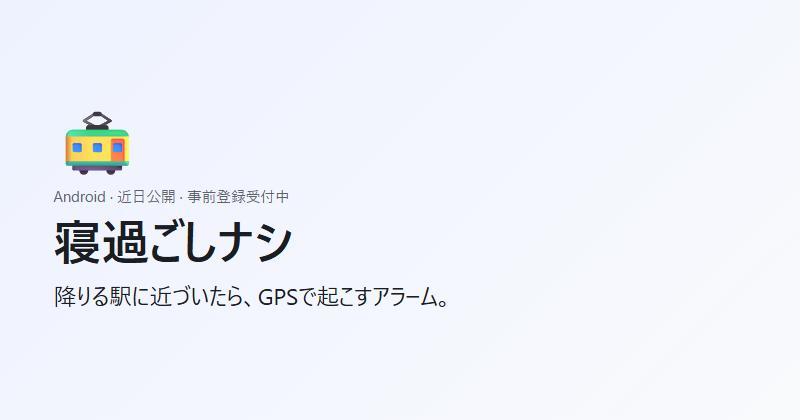
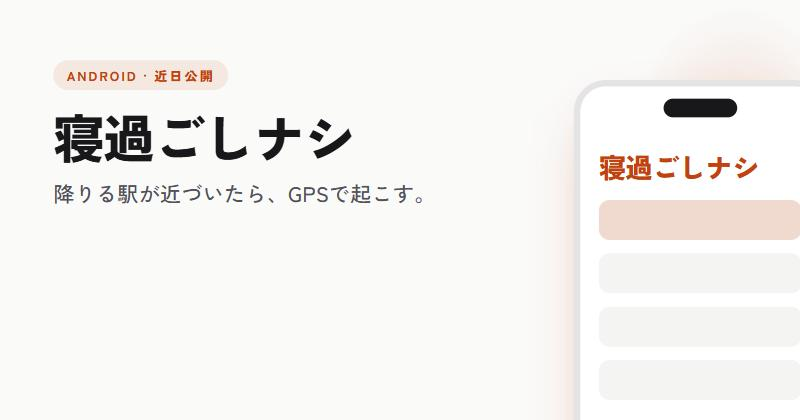
Redesign landing page: per-app accent, app preview, features grid, FAQ

diff --git a/docs/index.html b/docs/index.html
@@ -4,78 +4,206 @@
 <meta charset="utf-8">
 <meta name="viewport" content="width=device-width,initial-scale=1">
 <title>寝過ごしナシ | 近日公開 事前登録</title>
-<meta name="description" content="降りる駅に近づいたら、GPSで起こすアラーム。 Androidアプリ「寝過ごしナシ」の事前登録。">
-<meta property="og:title" content="寝過ごしナシ — 降りる駅に近づいたら、GPSで起こすアラーム。">
+<meta name="description" content="降りる駅が近づいたら、GPSで起こす。 Androidアプリ「寝過ごしナシ」の事前登録。">
+<meta property="og:title" content="寝過ごしナシ | 降りる駅が近づいたら、GPSで起こす。">
 <meta property="og:description" content="近日公開のAndroidアプリ。事前登録が多ければ優先してリリースします。">
 <meta property="og:image" content="https://is-gts.github.io/nesugoshi/og.png">
 <meta property="og:url" content="https://is-gts.github.io/nesugoshi/">
 <meta name="twitter:card" content="summary_large_image">
+<meta name="theme-color" content="#c2410c">
+<link rel="preconnect" href="https://fonts.googleapis.com"><link rel="preconnect" href="https://fonts.gstatic.com" crossorigin>
+<link href="https://fonts.googleapis.com/css2?family=Zen+Kaku+Gothic+New:wght@400;500;700;900&display=swap" rel="stylesheet">
 <style>
-:root{--bg:#f6f7f9;--card:#fff;--fg:#1a1d21;--muted:#5c6470;--line:#e3e6ea;--accent:#2563eb;--ok:#15803d}
-@media(prefers-color-scheme:dark){:root{--bg:#0f1115;--card:#181b21;--fg:#eceef1;--muted:#9aa3ad;--line:#2a2f37;--accent:#60a5fa;--ok:#4ade80}}
+:root{--bg:#fafaf9;--bg2:#f4f4f3;--fg:#18181b;--muted:#5b5b63;--line:#e4e4e7;--card:#ffffff;--accent:#c2410c;--accent-fg:#ffffff;--soft:color-mix(in srgb,#c2410c 9%,#fafaf9);--soft2:color-mix(in srgb,#c2410c 18%,#fafaf9);--ok:#15803d;--shadow:0 20px 60px -20px color-mix(in srgb,#c2410c 35%,transparent)}
+@media(prefers-color-scheme:dark){:root{--bg:#121214;--bg2:#18181b;--fg:#f4f4f5;--muted:#a1a1aa;--line:#2a2a30;--card:#1c1c21;--accent:#fb923c;--accent-fg:#101012;--soft:color-mix(in srgb,#fb923c 12%,#121214);--soft2:color-mix(in srgb,#fb923c 22%,#121214);--ok:#4ade80;--shadow:0 20px 60px -20px rgba(0,0,0,.6)}}
 *{box-sizing:border-box}
-body{margin:0;background:var(--bg);color:var(--fg);font:16px/1.6 system-ui,-apple-system,"Segoe UI",Roboto,"Hiragino Sans","Noto Sans JP",sans-serif}
-main{max-width:560px;margin:0 auto;padding:48px 16px 64px}
-.icon{font-size:64px;line-height:1;margin-bottom:12px}
-h1{font-size:clamp(30px,7vw,42px);line-height:1.25;margin:0 0 8px}
-.pitch{font-size:20px;font-weight:600;margin:0 0 20px}
-ul{margin:0 0 28px;padding-left:20px;color:var(--muted)}
-.badge{display:inline-block;font-size:13px;color:var(--muted);border:1px solid var(--line);border-radius:999px;padding:2px 10px;margin-bottom:16px}
-form{display:flex;gap:8px}
-input[type=email]{flex:1;min-width:0;padding:12px 14px;border:1px solid var(--line);border-radius:8px;background:var(--card);color:var(--fg);font-size:16px}
-button{padding:12px 18px;border:0;border-radius:8px;background:var(--accent);color:#fff;font-weight:600;font-size:16px;cursor:pointer;white-space:nowrap}
-button:disabled{opacity:.6;cursor:default}
-.msg{font-size:14px;min-height:1.4em;margin:8px 0 0}
-.msg.ok{color:var(--ok)}
-.hp{position:absolute;left:-9999px}
-.features{margin-top:48px;padding-top:32px;border-top:1px solid var(--line)}
-.features h2{font-size:22px;margin:0 0 20px}
-.features dl{margin:0;display:grid;gap:18px}
-.features dt{font-weight:600;margin:0 0 2px}
-.features dd{margin:0;color:var(--muted);font-size:15px}
-footer{margin-top:40px;color:var(--muted);font-size:13px}
+html{scroll-behavior:smooth}
+body{margin:0;background:var(--bg);color:var(--fg);font-family:"Zen Kaku Gothic New",system-ui,-apple-system,"Hiragino Sans","Noto Sans JP",sans-serif;font-size:16px;line-height:1.7;-webkit-font-smoothing:antialiased}
+.wrap{max-width:1080px;margin:0 auto;padding:0 20px}
+header{display:flex;align-items:center;justify-content:space-between;height:64px}
+.brand{font-weight:900;font-size:18px;display:flex;align-items:center;gap:10px}
+.brand i{width:12px;height:12px;border-radius:4px;background:var(--accent);display:inline-block}
+.tag{font-size:13px;color:var(--muted);font-weight:500}
+
+.hero{display:grid;grid-template-columns:1.1fr .9fr;gap:48px;align-items:center;padding:16px 0 72px;min-height:calc(100dvh - 64px)}
+.hero h1{font-size:clamp(32px,4vw,46px);line-height:1.22;font-weight:900;letter-spacing:-.01em;margin:0 0 18px}
+.hero p.sub{font-size:17px;color:var(--muted);margin:0 0 28px;max-width:34em}
+.eyebrow{display:inline-block;font-size:12px;font-weight:700;letter-spacing:.14em;color:var(--accent);background:var(--soft);padding:5px 12px;border-radius:999px;margin-bottom:18px}
+
+.reg label{display:block;font-size:13px;font-weight:700;margin-bottom:6px}
+.reg .row{display:flex;gap:8px}
+.reg input[type=email]{flex:1;min-width:0;padding:13px 14px;border:1.5px solid var(--line);border-radius:12px;background:var(--card);color:var(--fg);font:inherit;font-size:16px;transition:border-color .2s,box-shadow .2s}
+.reg input[type=email]::placeholder{color:#8a8a93}
+.reg input[type=email]:focus{outline:0;border-color:var(--accent);box-shadow:0 0 0 4px var(--soft2)}
+.reg button{padding:13px 22px;border:0;border-radius:12px;background:var(--accent);color:var(--accent-fg);font:inherit;font-weight:700;font-size:16px;cursor:pointer;white-space:nowrap;transition:transform .12s,filter .2s}
+.reg button:hover{filter:brightness(1.08)}
+.reg button:active{transform:scale(.97)}
+.reg button:disabled{opacity:.55;cursor:default;transform:none}
+.msg{font-size:14px;min-height:1.5em;margin:8px 0 0;color:var(--muted)}
+.msg.ok{color:var(--ok);font-weight:700}
+.msg.err{color:#dc2626}
+.hp{position:absolute;left:-9999px;width:1px;height:1px}
+.note{font-size:12.5px;color:var(--muted);margin:10px 0 0}
+
+.stage{display:flex;justify-content:center;position:relative}
+.stage::before{content:"";position:absolute;inset:10% -10% 0;background:radial-gradient(60% 60% at 50% 60%,var(--soft2),transparent 70%);z-index:0;pointer-events:none}
+.phone{position:relative;z-index:1;width:300px;aspect-ratio:9/18.5;border-radius:38px;background:var(--card);border:1px solid var(--line);box-shadow:var(--shadow),0 0 0 8px color-mix(in srgb,var(--fg) 6%,transparent);padding:48px 16px 20px;overflow:hidden;transform:rotate(-3deg)}
+.phone::before{content:"";position:absolute;top:14px;left:50%;width:84px;height:22px;transform:translateX(-50%);border-radius:999px;background:color-mix(in srgb,var(--fg) 85%,var(--bg))}
+.m-top{display:flex;justify-content:space-between;align-items:baseline;margin-bottom:12px}
+.m-top span{font-size:12px;color:var(--muted)}
+.m-top strong{font-size:22px;font-weight:900}
+.m-row{display:flex;justify-content:space-between;align-items:center;padding:11px 12px;border-radius:12px;background:var(--bg2);margin-bottom:8px;font-size:13px}
+.m-row b{display:block;font-weight:700}
+.m-row small{color:var(--muted);font-size:11px}
+.m-row em{font-style:normal;color:var(--muted);font-size:12px;white-space:nowrap}
+.m-row.m-hot{background:var(--soft2)}
+.m-row.m-hot em{color:var(--accent);font-weight:700}
+.m-route{position:relative;margin:6px 0 14px}
+.m-route::before{content:"";position:absolute;left:5px;top:12px;bottom:12px;width:2px;background:var(--line)}
+.m-st{display:grid;grid-template-columns:12px 1fr auto;gap:12px;align-items:center;padding:9px 0;font-size:13px;position:relative}
+.m-st i{width:12px;height:12px;border-radius:50%;border:2px solid var(--line);background:var(--card)}
+.m-st small{color:var(--muted);font-size:11px}
+.m-st.done i{background:var(--line)}
+.m-st.now i{border-color:var(--accent);background:var(--accent);box-shadow:0 0 0 5px var(--soft2)}
+.m-st.alert i{border-color:var(--accent)}
+.m-st.alert small{color:var(--accent);font-weight:700}
+.m-cta{margin-top:10px;text-align:center;padding:11px;border-radius:12px;background:var(--accent);color:var(--accent-fg);font-weight:700;font-size:13px}
+.m-grid{display:grid;grid-template-columns:1fr 1fr;gap:8px;margin-bottom:12px}
+.m-food{padding:10px 11px;border-radius:12px;background:var(--bg2);font-size:13px}
+.m-food b{display:block;font-weight:700}
+.m-food em{font-style:normal;font-size:11px;color:var(--muted)}
+.m-food.hot{background:var(--soft2)} .m-food.hot em{color:var(--accent);font-weight:700}
+.m-food.warn em{color:var(--accent)}
+.m-emoji{display:flex;justify-content:space-between;font-size:26px;margin:4px 2px 14px}
+.m-emoji span{padding:6px;border-radius:12px;line-height:1}
+.m-emoji .sel{background:var(--soft2);box-shadow:0 0 0 2px var(--accent)}
+.m-cal{display:grid;grid-template-columns:repeat(7,1fr);gap:6px;margin-bottom:12px}
+.m-cal i{aspect-ratio:1;border-radius:8px;background:var(--bg2)}
+.m-cal i.a{background:var(--accent)} .m-cal i.b{background:color-mix(in srgb,var(--accent) 55%,var(--bg2))} .m-cal i.c{background:color-mix(in srgb,var(--accent) 30%,var(--bg2))}
+.m-cal i.now{box-shadow:inset 0 0 0 2px var(--accent)}
+
+section{padding:72px 0}
+section h2{font-size:clamp(26px,3.4vw,36px);font-weight:900;letter-spacing:-.01em;line-height:1.3;margin:0 0 10px}
+section .lead{color:var(--muted);margin:0 0 36px;max-width:36em}
+.feat{display:grid;grid-template-columns:repeat(3,1fr);gap:14px}
+.feat article{padding:26px 24px;border-radius:16px;background:var(--card);border:1px solid var(--line)}
+.feat article:nth-child(1){grid-column:span 2;background:var(--soft)}
+.feat article:nth-child(4){background:var(--soft)}
+.feat h3{margin:0 0 8px;font-size:17px;font-weight:700}
+.feat p{margin:0;color:var(--muted);font-size:14.5px}
+
+.faq{background:var(--bg2);border-top:1px solid var(--line);border-bottom:1px solid var(--line)}
+.faq details{border-bottom:1px solid var(--line);padding:4px 0}
+.faq details:last-child{border-bottom:0}
+.faq summary{cursor:pointer;list-style:none;padding:16px 0;font-weight:700;display:flex;justify-content:space-between;gap:16px}
+.faq summary::-webkit-details-marker{display:none}
+.faq summary::after{content:"+";color:var(--accent);font-weight:400;font-size:22px;line-height:1}
+.faq details[open] summary::after{content:"−"}
+.faq details p{margin:0 0 18px;color:var(--muted);max-width:40em}
+
+.final{text-align:center}
+.final .lead{margin-left:auto;margin-right:auto}
+.final .reg{max-width:480px;margin:0 auto;text-align:left}
+footer{padding:24px 0 40px;color:var(--muted);font-size:12.5px;border-top:1px solid var(--line)}
+
+@media(prefers-reduced-motion:no-preference){
+.hero>*{animation:up .7s cubic-bezier(.16,1,.3,1) both}
+.hero>.stage{animation-delay:.15s}
+@keyframes up{from{opacity:0;transform:translateY(16px)}to{opacity:1;transform:none}}
+}
+@media(max-width:860px){
+.hero{grid-template-columns:1fr;gap:40px;padding:24px 0 56px;min-height:0}
+.stage{order:2}
+.phone{width:260px;transform:none}
+.feat{grid-template-columns:1fr}
+.feat article:nth-child(1){grid-column:auto}
+section{padding:56px 0}
+}
+@media(max-width:420px){.reg .row{flex-direction:column}.reg button{width:100%}}
 </style>
 </head>
 <body>
-<main>
-<div class="icon">🚃</div>
-<span class="badge">Android · 近日公開</span>
-<h1>寝過ごしナシ</h1>
-<p class="pitch">降りる駅に近づいたら、GPSで起こすアラーム。</p>
-<ul><li>駅を選ぶだけ、時刻設定は不要</li><li>手前の駅を通過したらバイブ＋音で通知</li><li>乗り換えにも対応</li></ul>
-<form><input type="email" name="email" placeholder="メールアドレス" required autocomplete="email"><input class="hp" name="hp" tabindex="-1" autocomplete="off"><button>事前登録</button></form>
-<p class="msg"></p>
-<section class="features">
-<h2>できること</h2>
-<dl>
-<dt>駅を選ぶだけのアラーム</dt><dd>降りる駅を選ぶだけで設定完了。到着時刻を計算したり、タイマーをかけたりする必要はありません。</dd>
-<dt>GPSで位置を判定</dt><dd>電車の遅延や各駅停車・快速の違いに関係なく、実際の現在地で判定するので確実に起こします。</dd>
-<dt>手前の駅で通知</dt><dd>降車駅の1〜2駅手前を通過した時点でバイブ＋音で通知。降りる準備の時間を確保できます。</dd>
-<dt>乗り換えにも対応</dt><dd>乗り換えがある経路は、各乗り換え駅でも順番に通知します。</dd>
-<dt>よく使う駅をお気に入り登録</dt><dd>通勤・通学の駅を登録しておけば、ワンタップでアラームを開始できます。</dd>
-<dt>バッテリーにやさしい設計</dt><dd>降車駅から離れている間は位置取得の頻度を落とし、電池消費を抑えます。</dd>
-</dl>
+<div class="wrap">
+<header><div class="brand"><i></i>寝過ごしナシ</div><span class="tag">Android アプリ</span></header>
+
+<section class="hero">
+<div>
+<span class="eyebrow">近日公開</span>
+<h1>降りる駅が近づいたら、<br>GPSで起こす。</h1>
+<p class="sub">駅を選ぶだけ。到着時刻の計算もタイマーも不要で、手前の駅を通過したらバイブと音で起こします。</p>
+<form class="reg" novalidate>
+<label for="email-hero">メールアドレス</label>
+<div class="row"><input id="email-hero" type="email" name="email" placeholder="you@example.com" required autocomplete="email" inputmode="email"><input class="hp" name="hp" tabindex="-1" autocomplete="off"><button type="submit">事前登録</button></div>
+<p class="msg" aria-live="polite"></p>
+</form>
+<p class="note">登録は無料。公開時にメールで1通だけお知らせします。</p>
+</div>
+<div class="stage"><div class="phone" aria-hidden="true">
+<div class="m-top"><span>降車駅</span><strong>新宿</strong></div>
+<div class="m-route">
+<div class="m-st done"><i></i><b>渋谷</b><small>通過</small></div>
+<div class="m-st now"><i></i><b>原宿</b><small>現在地</small></div>
+<div class="m-st alert"><i></i><b>代々木</b><small>ここで通知</small></div>
+<div class="m-st"><i></i><b>新宿</b><small>降車</small></div>
+</div>
+<div class="m-cta">アラーム作動中</div>
+</div></div>
 </section>
-<footer>登録は無料。公開時にメールで1通だけお知らせします。メールアドレスはリリース通知のみに使用し、第三者には提供しません。</footer>
-</main>
+
+<section id="features">
+<h2>できること</h2>
+<p class="lead">「寝過ごしナシ」で使える機能です。事前登録の数を見て開発に入るため、内容は変わることがあります。</p>
+<div class="feat">
+<article><h3>駅を選ぶだけ</h3><p>降りる駅を選べば設定完了。時刻を計算したり、タイマーをかけたりする必要はありません。</p></article>
+<article><h3>GPSで位置を判定</h3><p>遅延や各駅停車・快速の違いに関係なく、実際の現在地で判定。確実に起こします。</p></article>
+<article><h3>手前の駅で通知</h3><p>降車駅の1〜2駅手前を通過した時点でバイブと音で通知。降りる準備の時間が取れます。</p></article>
+<article><h3>乗り換えにも対応</h3><p>乗り換えがある経路は、各乗り換え駅でも順番に通知します。</p></article>
+<article><h3>よく使う駅をお気に入り</h3><p>通勤・通学の駅を登録しておけば、ワンタップでアラームを開始できます。</p></article>
+<article><h3>電池にやさしい</h3><p>降車駅から遠い間は位置取得の頻度を落とし、電池の消費を抑えます。</p></article>
+</div>
+</section>
+</div>
+
+<section class="faq"><div class="wrap">
+<h2>よくある質問</h2>
+<details><summary>地下鉄でも使えますか？</summary><p>地下ではGPSが届きにくいため、地下区間では駅間の所要時間から推定する方式を検討しています。地上路線が最も確実です。</p></details>
+<details><summary>音は鳴りますか？</summary><p>バイブのみ、音のみ、両方から選べます。イヤホン使用時はイヤホンから鳴らします。</p></details>
+<details><summary>いつ公開されますか？</summary><p>事前登録の数で優先順位を決めます。着手後は2〜3か月を目安にしています。</p></details>
+</div></section>
+
+<div class="wrap">
+<section class="final">
+<h2>欲しいと思ったら、事前登録を。</h2>
+<p class="lead">登録が多いアプリから順に作ります。あなたの1票で優先順位が決まります。</p>
+<form class="reg" novalidate>
+<label for="email-final">メールアドレス</label>
+<div class="row"><input id="email-final" type="email" name="email" placeholder="you@example.com" required autocomplete="email" inputmode="email"><input class="hp" name="hp" tabindex="-1" autocomplete="off"><button type="submit">事前登録</button></div>
+<p class="msg" aria-live="polite"></p>
+</form>
+</section>
+<footer>メールアドレスはリリース通知のみに使用し、第三者には提供しません。</footer>
+</div>
+
 <script>
 const ENDPOINT = "https://script.google.com/macros/s/AKfycbyzV1WIYIxnYVrx0GkV5e0CbnglA2Yu3JSZlw0mKB-JGQSZEI5FeUPZIB5cYhRjBg8wOw/exec";
 const APP = "nesugoshi", KEY = "preregistered-" + APP;
-const form = document.querySelector("form"), msg = document.querySelector(".msg");
-const mark = () => { form.querySelector("button").disabled = true; form.querySelector("input[type=email]").disabled = true; msg.textContent = "登録済みです。公開時にお知らせします。"; msg.className = "msg ok"; };
-if (localStorage.getItem(KEY)) mark();
-form.addEventListener("submit", async e => {
+const forms = [...document.querySelectorAll("form.reg")];
+const markAll = () => forms.forEach(f => { f.querySelector("button").disabled = true; f.querySelector("input[type=email]").disabled = true; const m = f.querySelector(".msg"); m.textContent = "登録済みです。公開時にお知らせします。"; m.className = "msg ok"; });
+if (localStorage.getItem(KEY)) markAll();
+forms.forEach(form => form.addEventListener("submit", async e => {
   e.preventDefault();
+  const input = form.querySelector("input[type=email]"), msg = form.querySelector(".msg"), btn = form.querySelector("button");
+  if (!/^[^\s@]+@[^\s@]+\.[^\s@]+$/.test(input.value.trim())) { msg.textContent = "メールアドレスの形式を確認してください。"; msg.className = "msg err"; input.focus(); return; }
   const fd = new FormData(form);
   fd.append("app", APP); fd.append("ref", document.referrer); fd.append("ua", navigator.userAgent);
-  form.querySelector("button").disabled = true; msg.className = "msg"; msg.textContent = "送信中…";
+  btn.disabled = true; msg.className = "msg"; msg.textContent = "送信中…";
   try {
     await fetch(ENDPOINT, { method: "POST", mode: "no-cors", body: fd });
-    localStorage.setItem(KEY, "1"); mark();
+    localStorage.setItem(KEY, "1"); markAll();
   } catch {
-    form.querySelector("button").disabled = false; msg.textContent = "送信に失敗しました。もう一度お試しください。";
+    btn.disabled = false; msg.textContent = "送信に失敗しました。もう一度お試しください。"; msg.className = "msg err";
   }
-});
+}));
 </script>
 </body>
 </html>

diff --git a/docs/og.html b/docs/og.html
@@ -1,14 +1,20 @@
 <!doctype html>
 <html lang="ja"><head><meta charset="utf-8"><title>OG</title>
+<link href="https://fonts.googleapis.com/css2?family=Zen+Kaku+Gothic+New:wght@500;900&display=swap" rel="stylesheet">
 <style>
-body{margin:0;width:1200px;height:630px;background:linear-gradient(135deg,#eef2ff,#f8fafc);color:#1a1d21;font-family:"Yu Gothic UI","Meiryo","Noto Sans JP",sans-serif;display:flex;flex-direction:column;justify-content:center;padding:0 80px;box-sizing:border-box}
-.i{font-size:96px;line-height:1;margin-bottom:20px}
-.b{font-size:22px;color:#5c6470;margin-bottom:8px}
-h1{font-size:72px;margin:0 0 16px;line-height:1.2}
-p{font-size:34px;margin:0;line-height:1.4}
+body{margin:0;width:1200px;height:630px;background:#fafaf9;color:#18181b;font-family:"Zen Kaku Gothic New",sans-serif;display:grid;grid-template-columns:1fr 420px;overflow:hidden}
+.l{padding:90px 0 0 80px}
+.e{display:inline-block;font-size:20px;font-weight:900;letter-spacing:.14em;color:#c2410c;background:color-mix(in srgb,#c2410c 10%,#fafaf9);padding:8px 20px;border-radius:999px;margin-bottom:28px}
+h1{font-size:76px;margin:0 0 20px;line-height:1.1;font-weight:900;letter-spacing:-.01em}
+p{font-size:32px;margin:0;line-height:1.45;font-weight:500;color:#52525b;max-width:620px}
+.r{position:relative}
+.r::before{content:"";position:absolute;inset:-20% -30% -20% 0;background:radial-gradient(50% 50% at 60% 50%,color-mix(in srgb,#c2410c 22%,#fafaf9),transparent 70%)}
+.b{position:absolute;right:-40px;top:120px;width:360px;height:700px;border-radius:48px;background:#fff;border:10px solid #e4e4e7;box-shadow:0 40px 80px -30px color-mix(in srgb,#c2410c 45%,transparent)}
+.b i{position:absolute;left:50%;top:18px;width:110px;height:28px;transform:translateX(-50%);border-radius:999px;background:#18181b}
+.b b{position:absolute;left:28px;right:28px;top:90px;font-size:40px;font-weight:900;color:#c2410c}
+.b s{position:absolute;left:28px;right:28px;height:60px;border-radius:16px;background:#f4f4f3;text-decoration:none}
+.b s.h{background:color-mix(in srgb,#c2410c 18%,#fafaf9)}
 </style></head><body>
-<div class="i">🚃</div>
-<div class="b">Android · 近日公開 · 事前登録受付中</div>
-<h1>寝過ごしナシ</h1>
-<p>降りる駅に近づいたら、GPSで起こすアラーム。</p>
+<div class="l"><span class="e">ANDROID · 近日公開</span><h1>寝過ごしナシ</h1><p>降りる駅が近づいたら、GPSで起こす。</p></div>
+<div class="r"><div class="b"><i></i><b>寝過ごしナシ</b><s class="h" style="top:170px"></s><s style="top:250px"></s><s style="top:330px"></s><s style="top:410px"></s></div></div>
 </body></html>
